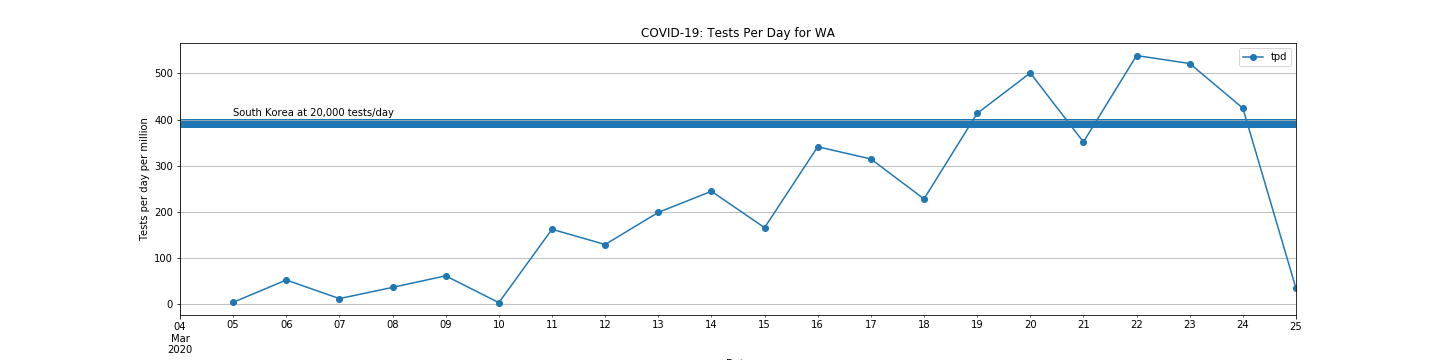
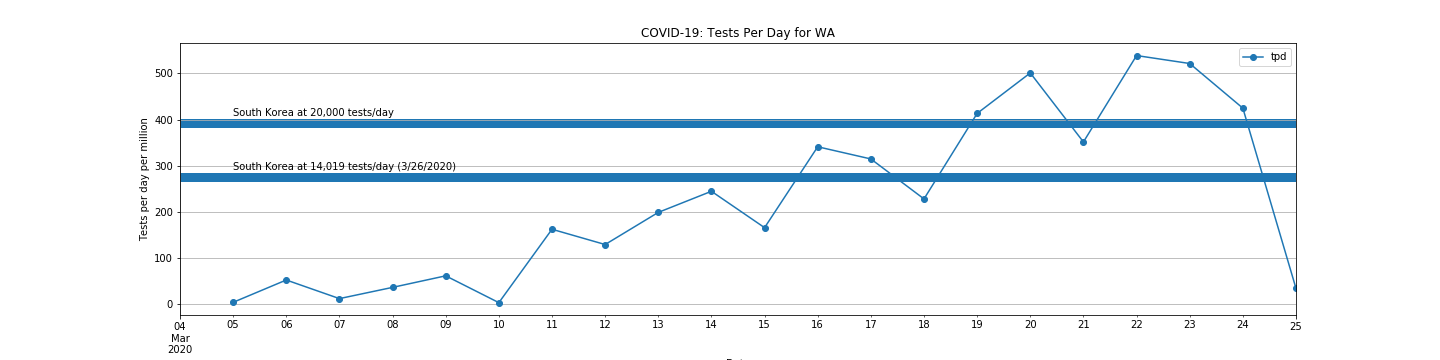
Added South Korea reference levels to per-day-per-capita plot for Washington State.

Changed region(s): [[0.125, 0.4278, 0.9062, 0.5194]]

diff --git a/README.md b/README.md
@@ -16,4 +16,12 @@ For now, I am focused on comparing US with other countries and US states with on
 
 ## Cumulative Test Totals by Date : WA (normalized)
 
+I plotted the data for Washington State normalized to tests per capita per day.  I also plotted data for South Korea based, population 51 million at 20,000 tests per day, as well as the number of tests that South Korea conducted yesterday (3/26/2020).
+
 ![Do you see me now?](./images/tpd_history_WA.png)
+
+ I plotted the data this way because I had read [an article on CNN.com](https://www.cnn.com/2020/03/25/politics/coronavirus-testing-trump-south-korea-fact-check/index.html) challenging Dr. Birx statement of 3/24/2020 that we had done more testing in the last 8 days than  then South Korea did in 8 mweeks.  This statement was subsequently repeated by Trump - probably with flare and has been widely challenged by fact-checkers based on the fact that the US has a much larger population.
+ 
+But anyway, South Korea is sometimes put forwad as having done an exemplery job at testing.  I just wanted to see how the US compared.  The CNN article stated that South Korea had conducted 20,000 tests per day at their peak, so I plotted that level on the chart.  Not having the full South Korean data in-hand, I just added what I could easily locate and put it on the chart for comparison purposes.  
+
+Sometime soon, I'll locate the full historical data for South Korea and can make a more useful plot.  But this is interesting as a reference point.  It appears that at least for the state of Washington the per-capita test rates are comparable to those being performed in Washington State.
